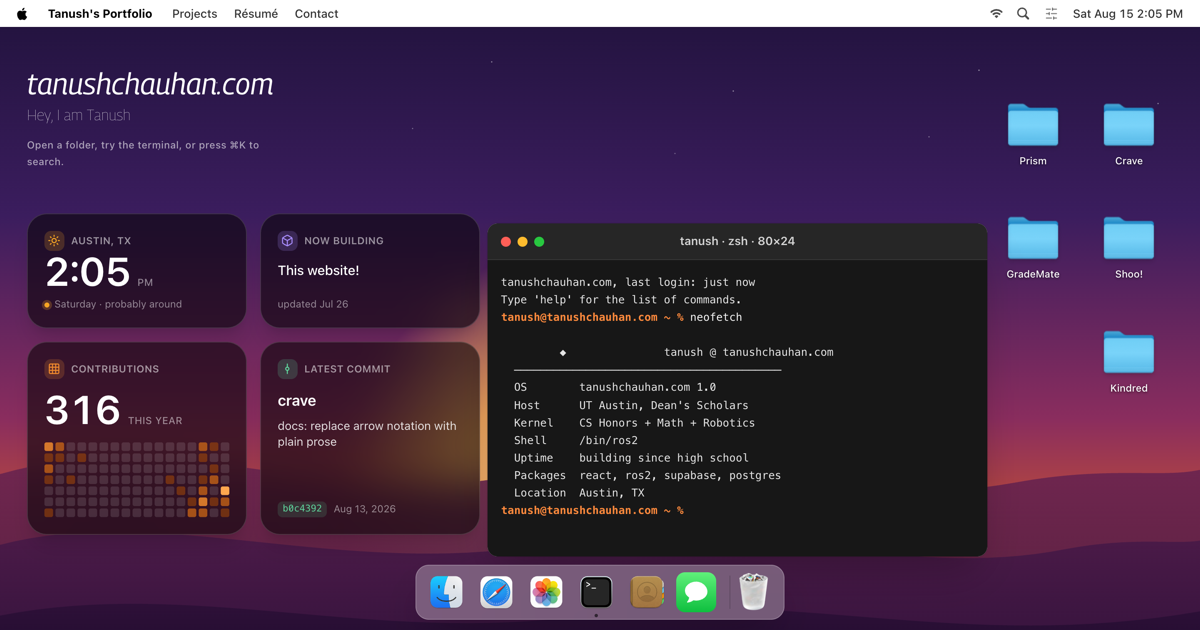
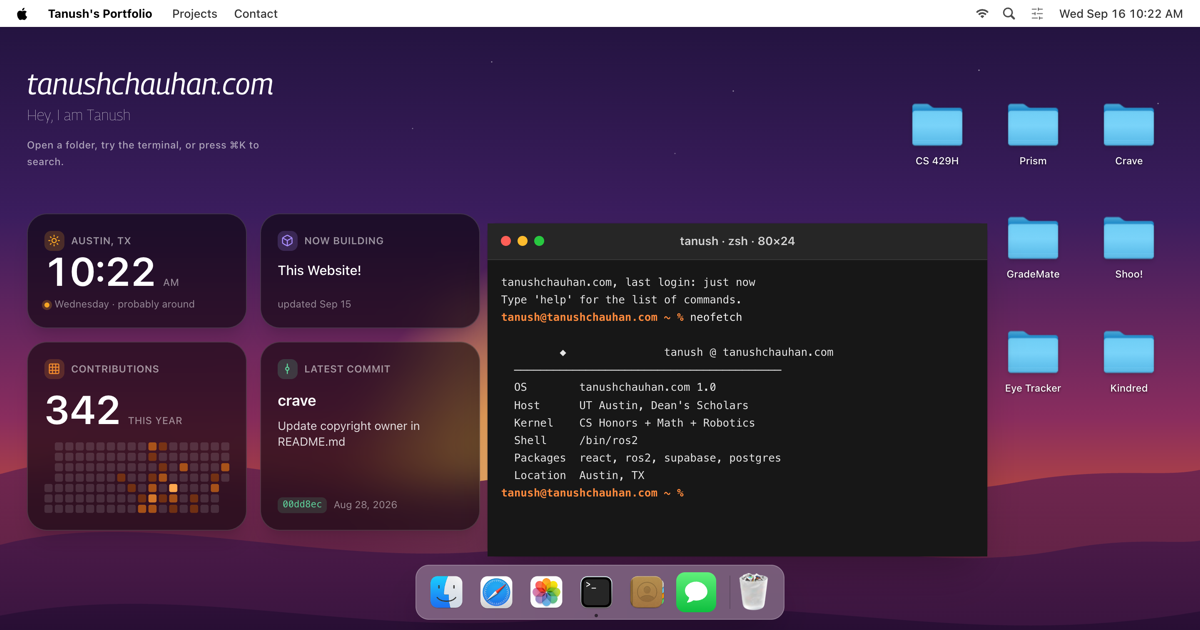
Drop the Austin line and the uptime boast, and reshoot the card

diff --git a/src/windows/Terminal.jsx b/src/windows/Terminal.jsx
@@ -17,7 +17,6 @@ const NEOFETCH = `
   Host      UT Austin, Dean's Scholars
   Kernel    CS Honors + Math + Robotics
   Shell     /bin/ros2
-  Uptime    building since high school
   Packages  react, ros2, supabase, postgres
   Location  Austin, TX`;
 

diff --git a/src/windows/AboutMac.jsx b/src/windows/AboutMac.jsx
@@ -51,7 +51,7 @@ const AboutMac = () => {
         </button>
 
         <p className="fine-print">
-          ™ and © 2026 Tanush Chauhan. Built in Austin.
+          ™ and © 2026 Tanush Chauhan.
         </p>
       </div>
     </>
